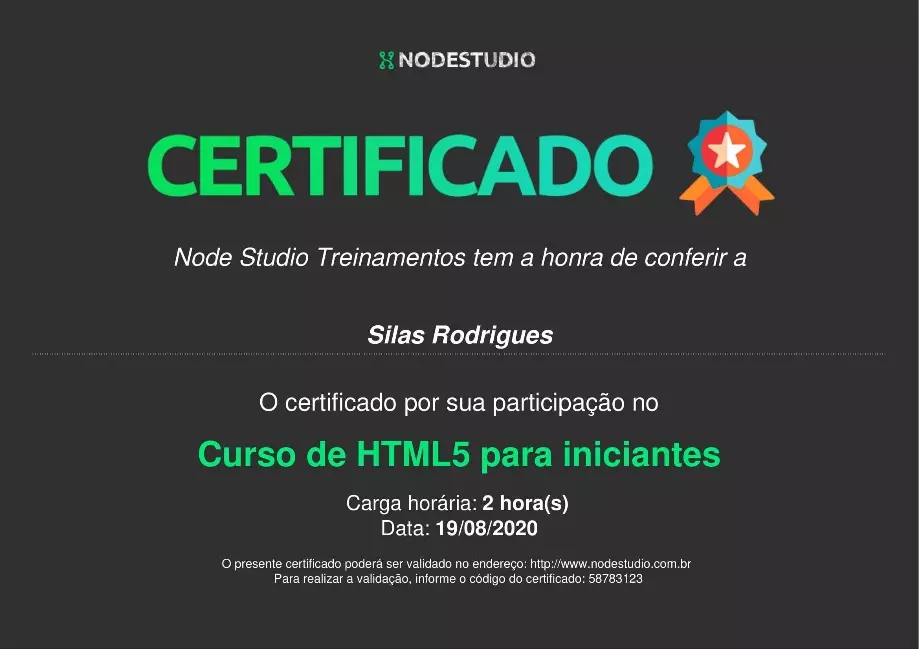
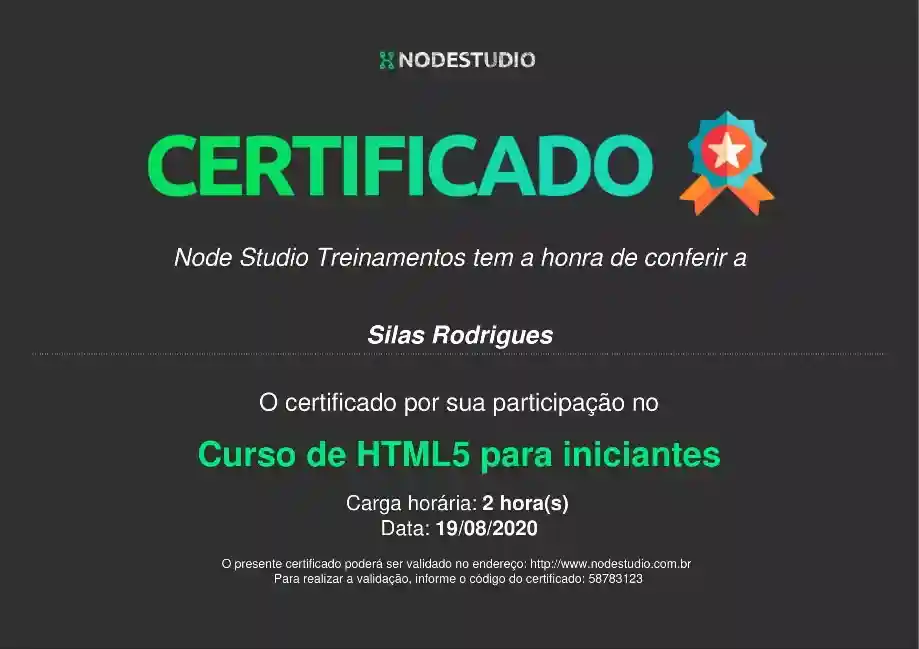
Update
- Atualização de fontes no mobile;
- Compressão de imagens e ícones.

diff --git a/404.html b/404.html
@@ -6,7 +6,7 @@
 	<meta http-equiv="content-language" content="pt-br, en-US">
 	<title>Error 404 - Page not found</title>
 	<link rel="stylesheet" href="../assets/css/404.css">
-	<link rel="shortcut icon" href="/favicon.ico">
+	<link rel="shortcut icon" type="image/png" href="/favicon.ico">
 	<link rel="apple-touch-icon" sizes="180x180" href="/apple-touch-icon.png">
   <link rel="icon" type="image/png" sizes="16x16" href="/favicon-16x16.png">
   <link rel="manifest" href="/site.webmanifest">

diff --git a/assets/css/carousel.css b/assets/css/carousel.css
@@ -47,14 +47,14 @@
 }
 
 #jobsCarousel {
-  font-family: Bradley Hand, cursive;
+  font-family: Bradley Hand, cursive, 'Open Sans', sans-serif;
 	user-select: none;
 }
 
 
 /* Lightbox rewrite */
 .lb-details {
-  font-family: Bradley Hand, cursive;
+  font-family: Bradley Hand, cursive, 'Open Sans', sans-serif;
 }
 
 .lb-number {

diff --git a/assets/css/home.css b/assets/css/home.css
@@ -2,7 +2,7 @@
 @import url('https://fonts.googleapis.com/css?family=Special+Elite');
 
 #home {
-	font-family: Bradley Hand, cursive;
+	font-family: Bradley Hand, cursive, 'Open Sans', sans-serif;
 	background-image: url(../img/code.webp);
 	background-size: cover;
 	background-position: top center;

diff --git a/assets/css/header.css b/assets/css/header.css
@@ -1,7 +1,7 @@
 /* Header section */
 #header {
 	position: fixed;
-	font-family: Bradley Hand, cursive;
+	font-family: Bradley Hand, cursive, 'Open Sans', sans-serif;
 	user-select: none;
 	z-index: 1000;
 	left: 0;

diff --git a/assets/css/form.css b/assets/css/form.css
@@ -3,7 +3,7 @@
 }
 
 #form {
-  font-family: 'MedievalSharp', cursive;
+  font-family: 'MedievalSharp', cursive, 'Open Sans', sans-serif;
 	background-image: linear-gradient(to top, #fbc2eb 0%, #a6c1ee 100%);
 }
 

diff --git a/assets/css/mediaquery.css b/assets/css/mediaquery.css
@@ -36,6 +36,11 @@
 		flex-direction: column;
 	}
 
+	.knowledge-header img {
+		transform: scale(.7) !important;
+    margin: 0 35px 0 55px !important;
+	}
+
 	/* End Home section */
 
 	/* Services section */

diff --git a/assets/css/services.css b/assets/css/services.css
@@ -121,7 +121,7 @@
 
 .knowledge-header p {
   font-size: 1.2rem;
-  font-family: Bradley Hand, cursive;
+  font-family: Bradley Hand, cursive, 'Open Sans', sans-serif;
 	color: #111;
 	margin-bottom: 10px;
 }

diff --git a/assets/css/footer.css b/assets/css/footer.css
@@ -1,7 +1,7 @@
 /* Footer */
 
 footer {
-	font-family: Bradley Hand, cursive;
+	font-family: Bradley Hand, cursive, 'Open Sans', sans-serif;
 	user-select: none;
   background-color: #0f0e17;
 }

diff --git a/assets/css/404.css b/assets/css/404.css
@@ -5,7 +5,7 @@
 	padding: 0;
 	margin: 0;
 	box-sizing: border-box;
-	font-family: 'MuseoModerno', cursive;
+	font-family: 'MuseoModerno', cursive, 'Open Sans', sans-serif;
 }
 
 body {

diff --git a/public/index.php b/public/index.php
@@ -19,15 +19,28 @@
   <link rel="icon" type="image/png" sizes="32x32" href="assets/img/favicon-32x32.png">
   <link rel="icon" type="image/png" sizes="16x16" href="assets/img/favicon-16x16.png">
   <link rel="manifest" href="assets/img/site.webmanifest">
-	<link rel="shortcut icon" href="../public/favicon.ico">
+	<link rel="shortcut icon" type="image/png" href="../public/favicon.ico">
 
 	<!-- Bootstrap 4.0.0 -->
+	<link rel="preload" href="../assets/css/bootstrap.css" as="style">
 	<link rel="stylesheet" href="../assets/css/bootstrap.css">
 
 	<!-- Reset CSS -->
+	<link rel="preload" href="../assets/css/reset.css" as="style">
 	<link rel="stylesheet" href="../assets/css/reset.css">
 
 	<!-- My styles -->
+	<link rel="preload" href="../assets/css/style.css" as="style">
+	<link rel="preload" href="../assets/css/header.css" as="style">
+	<link rel="preload" href="../assets/css/home.css" as="style">
+	<link rel="preload" href="../assets/css/services.css" as="style">
+	<link rel="preload" href="../assets/css/projects.css" as="style">
+	<link rel="preload" href="../assets/css/carousel.css" as="style">
+	<link rel="preload" href="../assets/css/certificates.css" as="style">
+	<link rel="preload" href="../assets/css/form.css" as="style">
+	<link rel="preload" href="../assets/css/footer.css" as="style">
+	<link rel="preload" href="../assets/css/loader.css" as="style">
+
 	<link rel="stylesheet" href="../assets/css/style.css">
 	<link rel="stylesheet" href="../assets/css/header.css">
 	<link rel="stylesheet" href="../assets/css/home.css">
@@ -40,14 +53,18 @@
 	<link rel="stylesheet" href="../assets/css/loader.css">
 
 	<!-- Media Queries -->
+	<link rel="preload" href="../assets/css/mediaquery.css" as="style">
 	<link rel="stylesheet" href="../assets/css/mediaquery.css">
 
 	<!-- Fonte Awesome and Icons CSS -->
+	<link rel="preload" href="https://cdnjs.cloudflare.com/ajax/libs/font-awesome/5.15.2/css/all.css" as="style">
+	<link rel="preload" href="../assets/css/icons.css" as="style">
+
 	<link rel="stylesheet" href="https://cdnjs.cloudflare.com/ajax/libs/font-awesome/5.15.2/css/all.css">
 	<link rel="stylesheet" href="../assets/css/icons.css">
 
 	<!-- Animate CSS -->
-	<link rel="stylesheet" href="https://cdnjs.cloudflare.com/ajax/libs/animate.css/4.1.0/animate.min.css">
+  <link rel="stylesheet" href="https://cdnjs.cloudflare.com/ajax/libs/animate.css/4.1.0/animate.min.css">
 
 	<!-- Lightbox -->
 	<link rel="stylesheet" href="https://cdnjs.cloudflare.com/ajax/libs/lightbox2/2.11.3/css/lightbox.min.css">
@@ -56,16 +73,16 @@
 	<script src="https://ajax.googleapis.com/ajax/libs/jquery/2.1.1/jquery.min.js"></script>
 
 	<!-- JQuery Validator -->
-	<script src="../assets/js/jquery.validate.min.js"></script>
+	<script defer src="../assets/js/jquery.validate.min.js"></script>
 
 	<!-- Mask Plugin JQuery -->
-	<script src="https://cdnjs.cloudflare.com/ajax/libs/jquery.mask/1.14.16/jquery.mask.min.js"></script>
+	<script defer src="https://cdnjs.cloudflare.com/ajax/libs/jquery.mask/1.14.16/jquery.mask.min.js"></script>
 
 	<!-- Form Validator -->
-	<script src="../assets/js/formvalidator.js"></script>
+	<script defer src="../assets/js/formvalidator.js"></script>
 
   <!-- Validator Messages -->
-	<script src="http://ajax.aspnetcdn.com/ajax/jquery.validate/1.9/localization/messages_ptbr.js"></script>
+	<script defer src="http://ajax.aspnetcdn.com/ajax/jquery.validate/1.9/localization/messages_ptbr.js"></script>
 	<!-- Scripts need to be imported before </head> to resolve validation messages error -->
 </head>
 <body ondragstart="false">
@@ -156,73 +173,73 @@
 		<div class="knowledges">
   		<div class="knowledge" data-aos="fade-left" data-aos-duration="900">
   			<div class="knowledge-header">
-  				<img src="../assets/img/languagens/html.webp" alt="HTML Logo" data-toggle="tooltip" title="HTML 5">
+  				<img src="../assets/img/languagens/html.webp" width="50" height="50" alt="HTML Logo" data-toggle="tooltip" title="HTML 5">
 					<p>Linguagem de marcação de texto para estruturar e apresentar páginas web.</p>
   			</div>
   		</div>
   		<div class="knowledge" data-aos="fade-left" data-aos-duration="900">
   			<div class="knowledge-header">
-  				<img src="../assets/img/languagens/css.webp" alt="CSS Logo" data-toggle="tooltip" title="CSS">
+  				<img src="../assets/img/languagens/css.webp" width="50" height="50" alt="CSS Logo" data-toggle="tooltip" title="CSS">
 					<p>Utilizado para estilizar a aparência de uma página, animar, usar transições e afins.</p>
   			</div>
   		</div>
   		<div class="knowledge" data-aos="fade-left" data-aos-duration="900">
   			<div class="knowledge-header">
-  				<img src="../assets/img/languagens/javascript.webp" alt="JavaScript Logo" data-toggle="tooltip" title="JavaScript">
+  				<img src="../assets/img/languagens/javascript.webp" width="50" height="50" alt="JavaScript Logo" data-toggle="tooltip" title="JavaScript">
 					<p>Linguagem de programação que permite a criação de conteúdos dinâmicos e deixá-lo mais interativo.</p>
   			</div>
   		</div>
   		<div class="knowledge" data-aos="fade-left" data-aos-duration="900">
   			<div class="knowledge-header">
-  				<img src="../assets/img/languagens/react.webp" alt="ReactJS Logo" data-toggle="tooltip" title="ReactJS">
+  				<img src="../assets/img/languagens/react.webp" width="50" height="50" alt="ReactJS Logo" data-toggle="tooltip" title="ReactJS">
 					<p>React JS é uma biblioteca JavaScript para a criação de interfaces de usuário ou UI (user interface).</p>
   			</div>
   		</div>
   		<div class="knowledge" data-aos="fade-left" data-aos-duration="900">
   			<div class="knowledge-header">
-  				<img src="../assets/img/languagens/mysql.webp" alt="MySQL Logo" data-toggle="tooltip" title="MySQL">
+  				<img src="../assets/img/languagens/mysql.webp" width="50" height="50" alt="MySQL Logo" data-toggle="tooltip" title="MySQL">
 					<p>O MySQL é um sistema de gerenciamento de banco de dados, que utiliza a linguagem SQL.</p>
   			</div>
   		</div>
   		<div class="knowledge" data-aos="fade-left" data-aos-duration="900">
   			<div class="knowledge-header">
-					<img src="../assets/img/languagens/jquery.webp" alt="jquery Logo" data-toggle="tooltip" title="jQuery">
+					<img src="../assets/img/languagens/jquery.webp" width="50" height="50" alt="jquery Logo" data-toggle="tooltip" title="jQuery">
 					<p>jQuery é uma biblioteca JavaScript que facilita a manipulação de eventos, animações, HTML e utilização de AJAX</p>
   			</div>
   		</div>
 			<div class="knowledge" data-aos="fade-left" data-aos-duration="900">
   			<div class="knowledge-header">
-  				<img src="../assets/img/languagens/figma.webp" alt="Figma Logo" data-toggle="tooltip" title="Figma">
+  				<img src="../assets/img/languagens/figma.webp" width="50" height="50" alt="Figma Logo" data-toggle="tooltip" title="Figma">
 					<p>O Figma é uma ferramenta de design para interfaces, que oferece a possibilidade de trabalho colaborativo.</p>
   			</div>
   		</div>
 			<div class="knowledge" data-aos="fade-left" data-aos-duration="900">
   			<div class="knowledge-header">
-					<img src="../assets/img/languagens/bulma.webp" alt="Bulma Logo" data-toggle="tooltip" title="Bulma">
+					<img src="../assets/img/languagens/bulma.webp" width="50" height="50" alt="Bulma Logo" data-toggle="tooltip" title="Bulma">
 					<p>Bulma é um framework CSS totalmente gratuito, inspirado no Bootstrap e baseado em Flexbox, que já tem uma compatibilidade bem grande entre os navegadores.</p>
   			</div>
 			</div>
 			<div class="knowledge" data-aos="fade-left" data-aos-duration="900">
 				<div class="knowledge-header">
-					<img src="../assets/img/languagens/php.webp" alt="PHP Logo" data-toggle="tooltip" title="PHP">
+					<img src="../assets/img/languagens/php.webp" width="50" height="50" alt="PHP Logo" data-toggle="tooltip" title="PHP">
 					<p>PHP é uma linguagem de programação web que favorece a conexão entre os servidores e a interface do usuário.</p>
   			</div>
 			</div>
 			<div class="knowledge" data-aos="fade-left" data-aos-duration="900">
 				<div class="knowledge-header">
-          <img src="../assets/img/languagens/git.webp" alt="Git Logo" data-toggle="tooltip" title="Git">
+          <img src="../assets/img/languagens/git.webp" width="50" height="50" alt="Git Logo" data-toggle="tooltip" title="Git">
 					<p>Git é um sistema de controle de versão de projetos.</p>
 				</div>
 			</div>
 			<div class="knowledge" data-aos="fade-left" data-aos-duration="900">
 				<div class="knowledge-header">
-					<img src="../assets/img/languagens/bootstrap.webp" alt="Bootstrap Logo" data-toggle="tooltip" title="Bootstrap">
+					<img src="../assets/img/languagens/bootstrap.webp" width="50" height="50" alt="Bootstrap Logo" data-toggle="tooltip" title="Bootstrap">
 					<p>Bootstrap é um framework CSS moderno que organiza e gerencia o layout de um site.</p>
 				</div>
   		</div>
 			<div class="knowledge" data-aos="fade-left" data-aos-duration="900">
 				<div class="knowledge-header">
-					<img src="../assets/img/languagens/sass.webp" alt="SASS Logo" data-toggle="tooltip" title="SASS">
+					<img src="../assets/img/languagens/sass.webp" width="50" height="50" alt="SASS Logo" data-toggle="tooltip" title="SASS">
 					<p>SASS é uma linguagem de extensão ao CSS que dá um controle mais profissional e dinâmico.</p>
 				</div>
   		</div>
